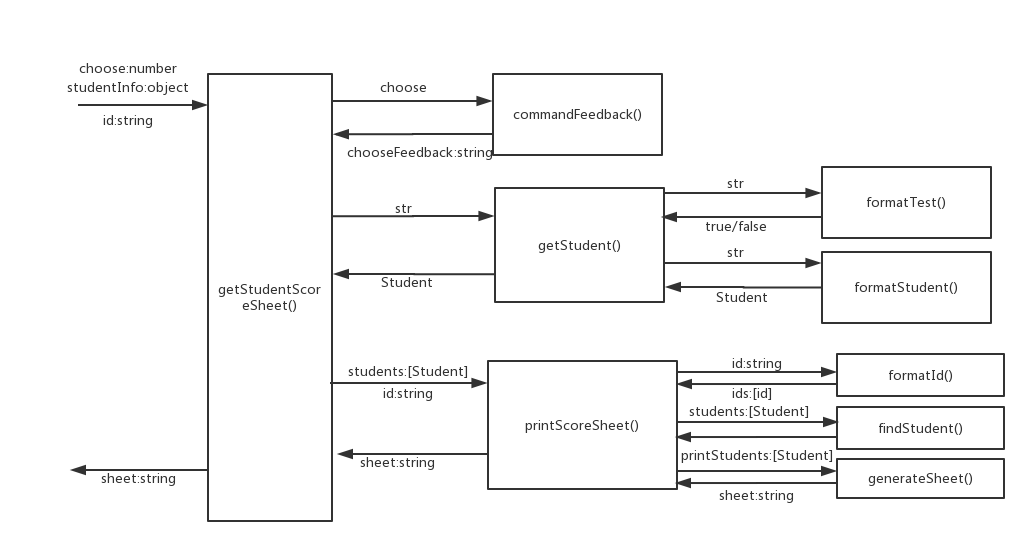
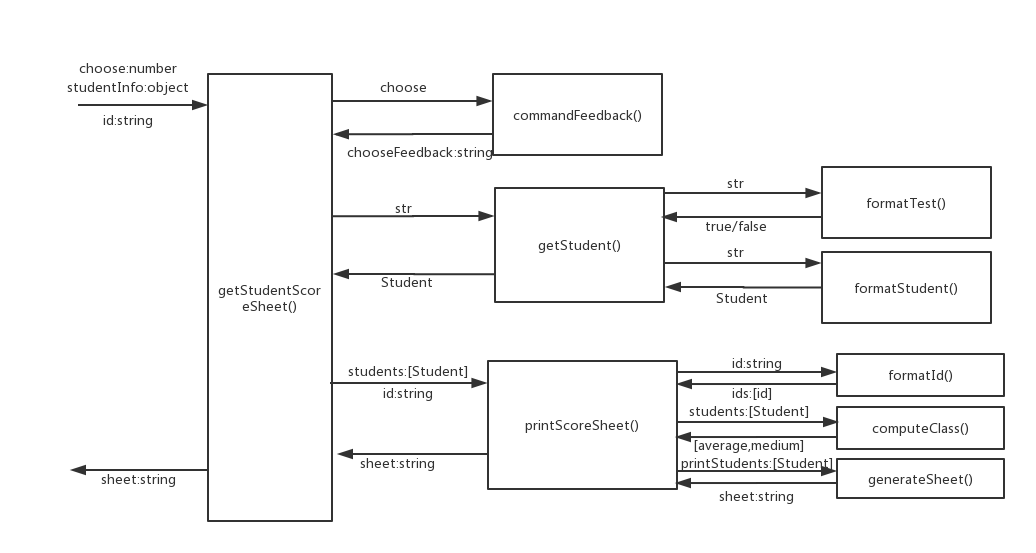
Update tasking.

diff --git a/readme_test.md b/readme_test.md
@@ -6,12 +6,12 @@ npm test
 当出现`学生xxx的成绩被添加`或打印出成绩单后，按回车回到主界面
 
 Tasking图
-![](http://ww1.sinaimg.cn/large/006cGFXaly1fysmgdog59j30ss0fd751.jpg)
+![](http://ww1.sinaimg.cn/large/006cGFXaly1fyttmpni3hj30ss0fdmxy.jpg)
 
 思路：
 - 所有程序整体分为三大部分：命令行交互、添加学生、打印成绩单
 - 添加学生部分分为检测输入信息的格式是否正确，以及解析输入信息并格式化两部分
 - 学生是一个类，有name,id,courses三个属性，以及computeSum(),computeAverage()两个方法
 - 格式化后的输入学生信息可作为参数得到一个学生实例，并将该实例放入students数组中
-- 打印成绩单分为检测输入格式是否正确并解析id，找到要打印输出的学生，生成成绩单格式几部分
+- 打印成绩单分为检测输入格式是否正确并解析id，计算全班成绩平均数和中位数，找到要打印输出的学生，生成成绩单格式几部分
 - 主程序中主要为一个循环语句，以出现主界面开始，根据不同输入执行相应语句并依次循环，当输入为3时改变循环变量的值跳出循环。
